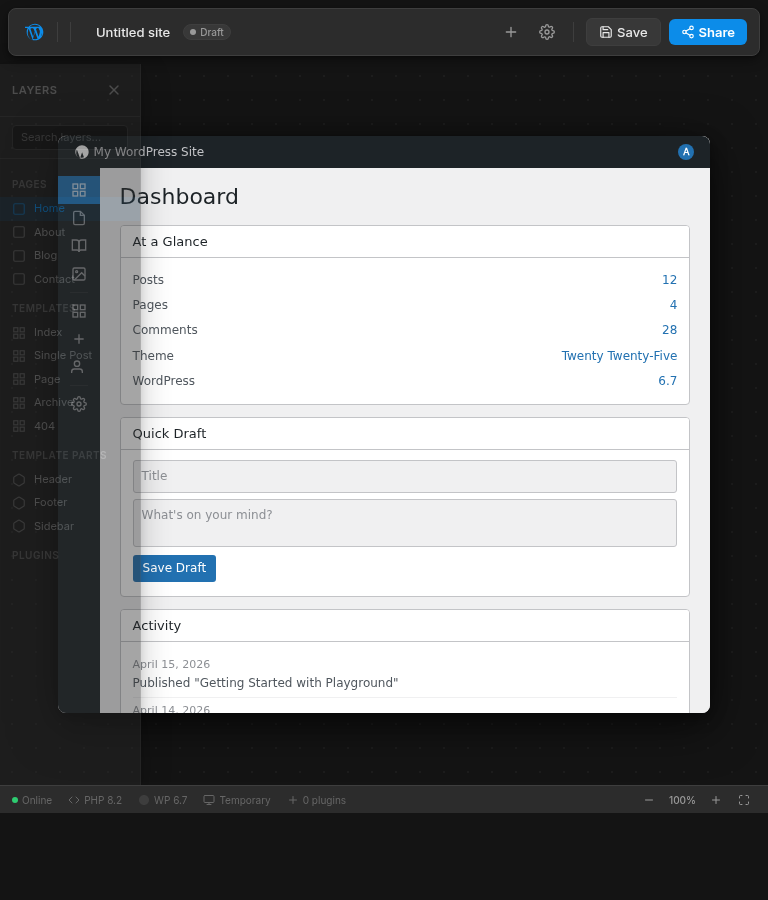
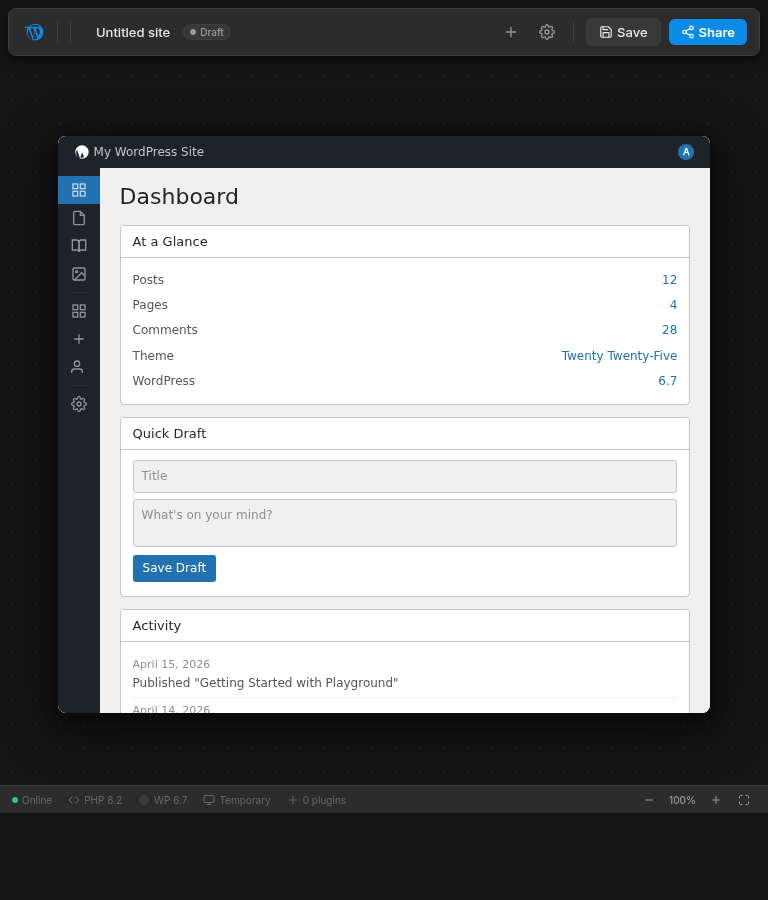
Fix responsive layout on mockups (360/768)
- Mockup 1 (Figma): sidebar starts collapsed on narrow viewports via
  CSS class instead of JS-only, preventing overlap with dashboard
- Mockup 2 (Docs): hide formatting toolbar groups at ≤600px with
  overflow ⋯ button, shorten status bar labels
- Mockup 3 (VS Code): shrinkable tabs, stacked action buttons,
  hidden non-essential status items at narrow widths

diff --git a/playground-ux-mockups/mockup-1-figma/index.html b/playground-ux-mockups/mockup-1-figma/index.html
@@ -979,10 +979,14 @@ html, body {
 }
 
 @media (max-width: 768px) {
-  .sidebar { position: fixed; top: calc(var(--toolbar-h) + var(--space-2) + var(--space-2)); bottom: var(--statusbar-h); left: 0; z-index: 90; width: var(--sidebar-w); box-shadow: var(--shadow-lg); }
-  .sidebar.collapsed { width: 0; }
-  .inspector { position: fixed; top: calc(var(--toolbar-h) + var(--space-2) + var(--space-2)); bottom: var(--statusbar-h); right: 0; z-index: 90; width: var(--inspector-w); box-shadow: var(--shadow-lg); }
-  .inspector.collapsed { width: 0; }
+  .sidebar { position: fixed; top: calc(var(--toolbar-h) + var(--space-2) + var(--space-2)); bottom: var(--statusbar-h); left: 0; z-index: 90; width: var(--sidebar-w); box-shadow: var(--shadow-lg); transform: translateX(0); }
+  .sidebar.animated { transition: transform .25s ease, opacity .2s; }
+  .sidebar.collapsed { transform: translateX(-100%); opacity: 0; pointer-events: none; width: var(--sidebar-w); }
+  .inspector { position: fixed; top: calc(var(--toolbar-h) + var(--space-2) + var(--space-2)); bottom: var(--statusbar-h); right: 0; z-index: 90; width: var(--inspector-w); box-shadow: var(--shadow-lg); transform: translateX(0); }
+  .inspector.animated { transition: transform .25s ease, opacity .2s; }
+  .inspector.collapsed { transform: translateX(100%); opacity: 0; pointer-events: none; width: var(--inspector-w); }
+  .sidebar-overlay { display: none; position: fixed; inset: 0; background: rgba(0,0,0,.4); z-index: 89; }
+  .sidebar-overlay.visible { display: block; }
   .toolbar-menus { display: none; }
   .toolbar-filename .filename-text { max-width: 120px; }
   .wp-dashboard-widgets { grid-template-columns: 1fr; }
@@ -1003,7 +1007,8 @@ html, body {
   .btn-primary span { display: none; }
   .btn-primary svg { margin: 0; }
   .canvas-frame { width: 95%; height: 75%; }
-  .statusbar { gap: var(--space-2); overflow-x: auto; }
+  .statusbar { gap: var(--space-2); overflow: hidden; }
+  .zoom-controls { display: none; }
 }
 
 @media (max-width: 500px) {
@@ -1207,7 +1212,8 @@ button:focus:not(:focus-visible) { outline: none; }
   <div class="main">
 
     <!-- LEFT SIDEBAR -->
-    <aside class="sidebar" id="sidebar">
+    <div class="sidebar-overlay" id="sidebarOverlay"></div>
+    <aside class="sidebar collapsed" id="sidebar">
       <div class="sidebar-header">
         <h3>Layers</h3>
         <button class="icon-btn" id="sidebarCollapseBtn" title="Close sidebar">
@@ -1620,10 +1626,11 @@ button:focus:not(:focus-visible) { outline: none; }
   'use strict';
 
   // ===== STATE =====
+  var isNarrow = function() { return window.innerWidth <= 768; };
   const state = {
     unsaved: false,
     zoom: 1,
-    sidebarOpen: true,
+    sidebarOpen: !isNarrow(),
     inspectorOpen: false,
     installedPlugins: [],
     siteName: 'Untitled site',
@@ -1908,12 +1915,33 @@ button:focus:not(:focus-visible) { outline: none; }
   });
 
   // ===== SETTINGS (INSPECTOR) PANEL =====
+  function updateOverlay() {
+    var overlay = document.getElementById('sidebarOverlay');
+    if (isNarrow() && (state.sidebarOpen || state.inspectorOpen)) {
+      overlay.classList.add('visible');
+    } else {
+      overlay.classList.remove('visible');
+    }
+  }
+
   function toggleInspector() {
     state.inspectorOpen = !state.inspectorOpen;
+    els.inspector.classList.add('animated');
+    if (state.inspectorOpen && isNarrow() && state.sidebarOpen) {
+      state.sidebarOpen = false;
+      els.sidebar.classList.add('collapsed');
+    }
     els.inspector.classList.toggle('collapsed', !state.inspectorOpen);
+    updateOverlay();
   }
 
   els.settingsBtn.addEventListener('click', toggleInspector);
+
+  document.getElementById('sidebarOverlay').addEventListener('click', function() {
+    if (state.sidebarOpen) { state.sidebarOpen = false; els.sidebar.classList.add('collapsed'); }
+    if (state.inspectorOpen) { state.inspectorOpen = false; els.inspector.classList.add('collapsed'); }
+    updateOverlay();
+  });
 
   // Inspector tabs
   $$('.inspector-tab').forEach(function(tab) {
@@ -1971,7 +1999,13 @@ button:focus:not(:focus-visible) { outline: none; }
   // ===== SIDEBAR =====
   function toggleSidebar() {
     state.sidebarOpen = !state.sidebarOpen;
+    els.sidebar.classList.add('animated');
+    if (state.sidebarOpen && isNarrow() && state.inspectorOpen) {
+      state.inspectorOpen = false;
+      els.inspector.classList.add('collapsed');
+    }
     els.sidebar.classList.toggle('collapsed', !state.sidebarOpen);
+    updateOverlay();
   }
 
   els.sidebarCollapseBtn.addEventListener('click', toggleSidebar);
@@ -2140,8 +2174,7 @@ button:focus:not(:focus-visible) { outline: none; }
 
   // ===== RESPONSIVE — auto-collapse on narrow =====
   function handleResize() {
-    var w = window.innerWidth;
-    if (w <= 768) {
+    if (isNarrow()) {
       if (state.sidebarOpen) {
         state.sidebarOpen = false;
         els.sidebar.classList.add('collapsed');
@@ -2150,12 +2183,16 @@ button:focus:not(:focus-visible) { outline: none; }
         state.inspectorOpen = false;
         els.inspector.classList.add('collapsed');
       }
+      updateOverlay();
     }
   }
   window.addEventListener('resize', handleResize);
-  handleResize();
 
   // ===== INIT =====
+  if (!isNarrow()) {
+    state.sidebarOpen = true;
+    els.sidebar.classList.remove('collapsed');
+  }
   updateStatusBar();
 
 })();

diff --git a/playground-ux-mockups/mockup-2-docs/index.html b/playground-ux-mockups/mockup-2-docs/index.html
@@ -1514,6 +1514,26 @@ input, select, textarea {
   }
 }
 
+/* Overflow menu button for narrow toolbar */
+.toolbar-overflow-btn {
+  display: none;
+  align-items: center;
+  justify-content: center;
+  min-width: 28px;
+  height: 28px;
+  border-radius: var(--radius-sm);
+  color: var(--text-secondary);
+  cursor: pointer;
+  font-size: 16px;
+  font-weight: bold;
+  letter-spacing: 1px;
+  flex-shrink: 0;
+}
+.toolbar-overflow-btn:hover {
+  background: var(--surface-hover);
+  color: var(--text);
+}
+
 @media (max-width: 600px) {
   .header {
     padding: 0 var(--space-2);
@@ -1550,6 +1570,7 @@ input, select, textarea {
   .toolbar {
     padding-left: var(--space-2);
     gap: 0;
+    overflow: hidden;
   }
 
   .toolbar-separator.hide-mobile {
@@ -1557,6 +1578,18 @@ input, select, textarea {
   }
 
   .toolbar-group.hide-mobile {
+    display: none;
+  }
+
+  .hide-small {
+    display: none !important;
+  }
+
+  .toolbar-overflow-btn {
+    display: flex;
+  }
+
+  .toolbar-spacer {
     display: none;
   }
 
@@ -1584,6 +1617,7 @@ input, select, textarea {
 
   .statusbar {
     font-size: 10px;
+    overflow: hidden;
   }
 }
 
@@ -1631,6 +1665,15 @@ input, select, textarea {
 
   .settings-sidebar.open {
     width: 100%;
+  }
+
+  .menubar {
+    display: none;
+  }
+
+  .toolbar {
+    padding-left: var(--space-2);
+    padding-right: var(--space-2);
   }
 }
 </style>
@@ -2063,10 +2106,10 @@ input, select, textarea {
       </div>
     </div>
 
-    <div class="toolbar-separator"></div>
+    <div class="toolbar-separator hide-small"></div>
 
     <!-- Text formatting -->
-    <div class="toolbar-group">
+    <div class="toolbar-group hide-small">
       <button class="toolbar-btn" title="Bold (Ctrl+B)" aria-label="Bold">
         <svg viewBox="0 0 24 24" fill="currentColor"><path d="M15.6 10.79c.97-.67 1.65-1.77 1.65-2.79 0-2.26-1.75-4-4-4H7v14h7.04c2.09 0 3.71-1.7 3.71-3.79 0-1.52-.86-2.82-2.15-3.42zM10 6.5h3c.83 0 1.5.67 1.5 1.5s-.67 1.5-1.5 1.5h-3v-3zm3.5 9H10v-3h3.5c.83 0 1.5.67 1.5 1.5s-.67 1.5-1.5 1.5z"/></svg>
       </button>
@@ -2081,10 +2124,10 @@ input, select, textarea {
       </button>
     </div>
 
-    <div class="toolbar-separator"></div>
+    <div class="toolbar-separator hide-small"></div>
 
     <!-- Color & highlight -->
-    <div class="toolbar-group">
+    <div class="toolbar-group hide-small">
       <button class="toolbar-btn" title="Text color" aria-label="Text color">
         <svg viewBox="0 0 24 24" fill="currentColor"><path d="M11 2L5.5 16h2.25l1.12-3h6.25l1.12 3h2.25L13 2h-2zm-1.38 9L12 4.67 14.38 11H9.62z"/><rect x="3" y="18" width="18" height="3" fill="#1a73e8"/></svg>
       </button>
@@ -2092,6 +2135,11 @@ input, select, textarea {
         <svg viewBox="0 0 24 24" fill="currentColor"><path d="M16.56 8.94L7.62 0 6.21 1.41l2.38 2.38-5.15 5.15c-.59.59-.59 1.54 0 2.12l5.5 5.5c.29.29.68.44 1.06.44s.77-.15 1.06-.44l5.5-5.5c.59-.58.59-1.53 0-2.12zM5.21 10L10 5.21 14.79 10H5.21zM19 11.5s-2 2.17-2 3.5c0 1.1.9 2 2 2s2-.9 2-2c0-1.33-2-3.5-2-3.5z"/><rect x="3" y="19" width="18" height="3" fill="#fdd663"/></svg>
       </button>
     </div>
+
+    <!-- Overflow button for narrow screens -->
+    <button class="toolbar-overflow-btn" title="More formatting options" aria-label="More formatting options">
+      <svg viewBox="0 0 24 24" fill="currentColor" width="16" height="16"><circle cx="5" cy="12" r="2"/><circle cx="12" cy="12" r="2"/><circle cx="19" cy="12" r="2"/></svg>
+    </button>
 
     <div class="toolbar-separator hide-mobile"></div>
 
@@ -2471,11 +2519,11 @@ input, select, textarea {
       </div>
       <div class="statusbar-item" id="statusStorage">
         <svg viewBox="0 0 24 24" fill="none" stroke="currentColor" stroke-width="2" stroke-linecap="round" stroke-linejoin="round"><ellipse cx="12" cy="5" rx="9" ry="3"/><path d="M21 12c0 1.66-4 3-9 3s-9-1.34-9-3"/><path d="M3 5v14c0 1.66 4 3 9 3s9-1.34 9-3V5"/></svg>
-        <span>Browser Storage (OPFS)</span>
+        <span>Browser<span class="hide-small"> Storage (OPFS)</span></span>
       </div>
       <div class="statusbar-item" id="statusPluginCount">
         <svg viewBox="0 0 24 24" fill="none" stroke="currentColor" stroke-width="2" stroke-linecap="round" stroke-linejoin="round"><path d="M12 2L2 7l10 5 10-5-10-5z"/><path d="M2 17l10 5 10-5"/><path d="M2 12l10 5 10-5"/></svg>
-        <span id="statusPluginLabel">0 active plugins</span>
+        <span id="statusPluginLabel">0<span class="hide-small"> active</span> plugins</span>
       </div>
     </div>
     <div class="statusbar-right">

diff --git a/playground-ux-mockups/mockup-3-vscode/index.html b/playground-ux-mockups/mockup-3-vscode/index.html
@@ -693,6 +693,8 @@ input:focus, select:focus {
   gap: var(--space-4);
   font-size: var(--fs-sm);
   color: #c3c4c7;
+  overflow: hidden;
+  white-space: nowrap;
 }
 .wp-admin-bar a { color: #c3c4c7; text-decoration: none; }
 .wp-admin-bar a:hover { color: #00b9eb; }
@@ -1241,16 +1243,41 @@ input:focus, select:focus {
     opacity: 1;
   }
   .titlebar-title { font-size: var(--fs-xs); }
+  .tab-bar {
+    max-width: 100%;
+    overflow-x: auto;
+    overflow-y: hidden;
+    scrollbar-width: none;
+  }
+  .tab {
+    min-width: 0;
+    flex-shrink: 1;
+    max-width: 140px;
+  }
+  .tab-label {
+    overflow: hidden;
+    text-overflow: ellipsis;
+  }
   .wp-dashboard { padding: var(--space-3); }
   .wp-dashboard h1 { font-size: var(--fs-lg); }
   .wp-welcome-panel { padding: var(--space-3); }
+  .wp-welcome-panel p { font-size: var(--fs-sm); }
+  .wp-welcome-actions { flex-direction: column; gap: var(--space-2); }
+  .wp-btn { text-align: center; justify-content: center; font-size: var(--fs-xs); padding: var(--space-1) var(--space-2); }
   .wp-widget-grid { grid-template-columns: 1fr; }
   .palette { max-width: calc(100vw - 16px); }
   .toast { min-width: 240px; max-width: calc(100vw - 32px); }
   .bottom-panel { min-height: 0; height: 0; }
   .bottom-panel.collapsed { display: none; }
+  .status-bar { overflow: hidden; }
   .status-item { padding: 0 var(--space-1); font-size: 10px; }
+  .status-item.hide-narrow { display: none; }
   .breadcrumbs { display: none; }
+}
+
+@media (max-width: 400px) {
+  .tab { max-width: 120px; }
+  .status-item .status-label { display: none; }
 }
 
 /* Mobile sidebar overlay */
@@ -1876,11 +1903,11 @@ input:focus, select:focus {
       <svg viewBox="0 0 16 16" fill="currentColor"><path d="M2 3.5A1.5 1.5 0 013.5 2h9A1.5 1.5 0 0114 3.5v9a1.5 1.5 0 01-1.5 1.5h-9A1.5 1.5 0 012 12.5v-9zM3.5 3a.5.5 0 00-.5.5V5h10V3.5a.5.5 0 00-.5-.5h-9zM13 6H3v6.5a.5.5 0 00.5.5h9a.5.5 0 00.5-.5V6z"/></svg>
       <span id="statusStorageValue">Browser</span>
     </div>
-    <div class="status-item" id="statusNetwork" title="Network Status">
+    <div class="status-item hide-narrow" id="statusNetwork" title="Network Status">
       <svg viewBox="0 0 16 16" fill="currentColor" id="statusNetworkIcon"><path d="M8 1a7 7 0 100 14A7 7 0 008 1zM2.04 8.5h2.97c.05 1.58.26 3.04.62 4.22A6.01 6.01 0 012.04 8.5zm0-1h2.97c.05-1.58.26-3.04.62-4.22A6.01 6.01 0 012.04 7.5zm11.92 0a6.01 6.01 0 00-3.59-4.22c.36 1.18.57 2.64.62 4.22h2.97zm0 1h-2.97c-.05 1.58-.26 3.04-.62 4.22a6.01 6.01 0 003.59-4.22zM6.02 7.5h3.96c-.05-1.7-.29-3.24-.68-4.36C8.89 2.44 8.42 2 8 2s-.89.44-1.3 1.14c-.39 1.12-.63 2.66-.68 4.36zm0 1c.05 1.7.29 3.24.68 4.36.41.7.88 1.14 1.3 1.14s.89-.44 1.3-1.14c.39-1.12.63-2.66.68-4.36H6.02z"/></svg>
       <span id="statusNetworkValue">Online</span>
     </div>
-    <div class="status-item" id="statusPlugins" title="Active Plugins">
+    <div class="status-item hide-narrow" id="statusPlugins" title="Active Plugins">
       <svg viewBox="0 0 16 16" fill="currentColor"><path d="M4 0v6h2V4h1v2h2V4h1v2h2V0H4zm1 1h6v2H5V1zm1 7v2.5a3.5 3.5 0 001.5 2.87V16h1v-2.63A3.5 3.5 0 0010 10.5V8H6z"/></svg>
       <span id="statusPluginsValue">3</span> plugins
     </div>
